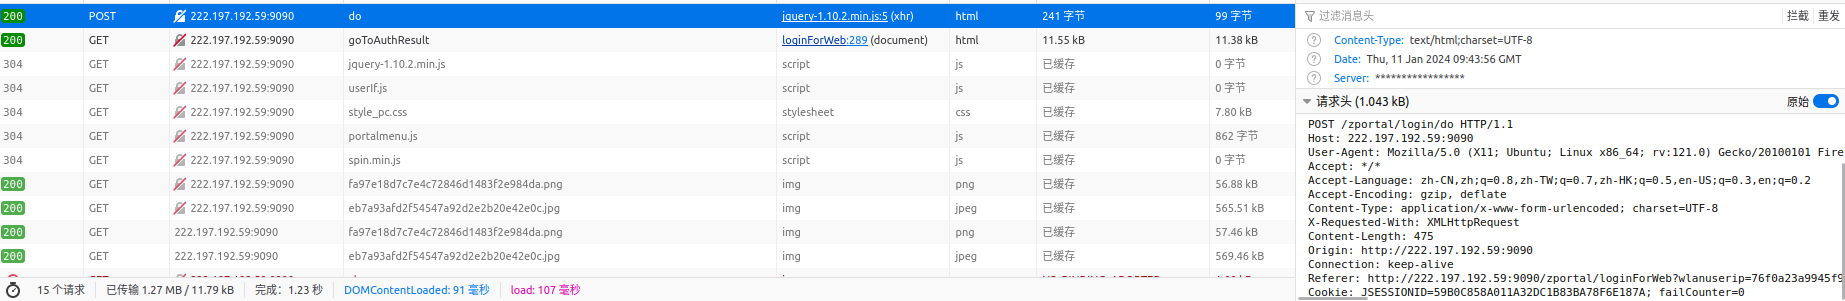
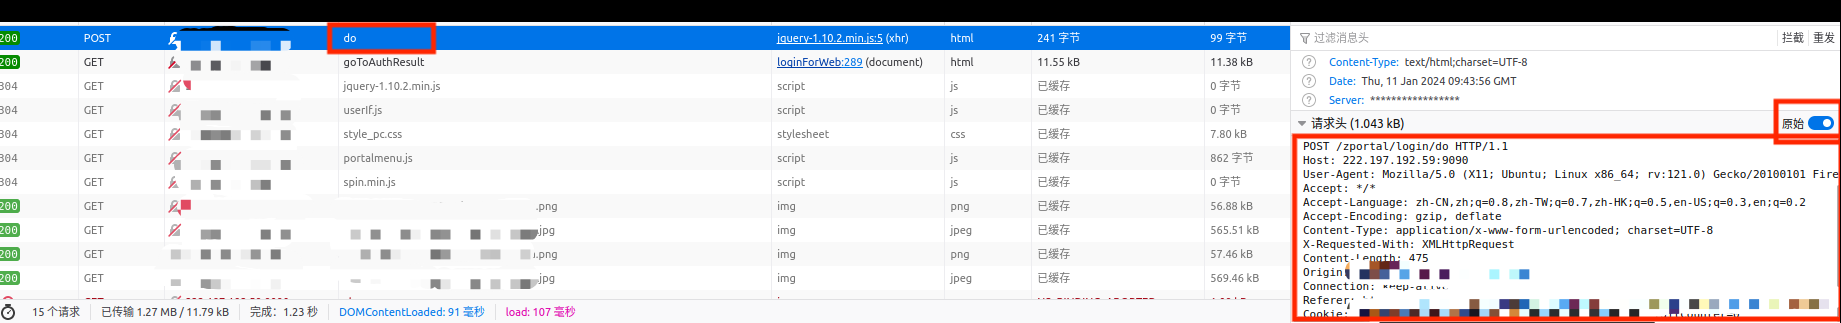
修改文档

diff --git a/README.md b/README.md
@@ -29,4 +29,6 @@
 
 选择 `请求` 栏 `表单数据`，同样打开 `原始` 选项，复制全文，粘贴至粘贴至 `config.json` 中 `data` 字段
 
+![](imgs/request.png)
+
 运行 `auto-auth.py`
